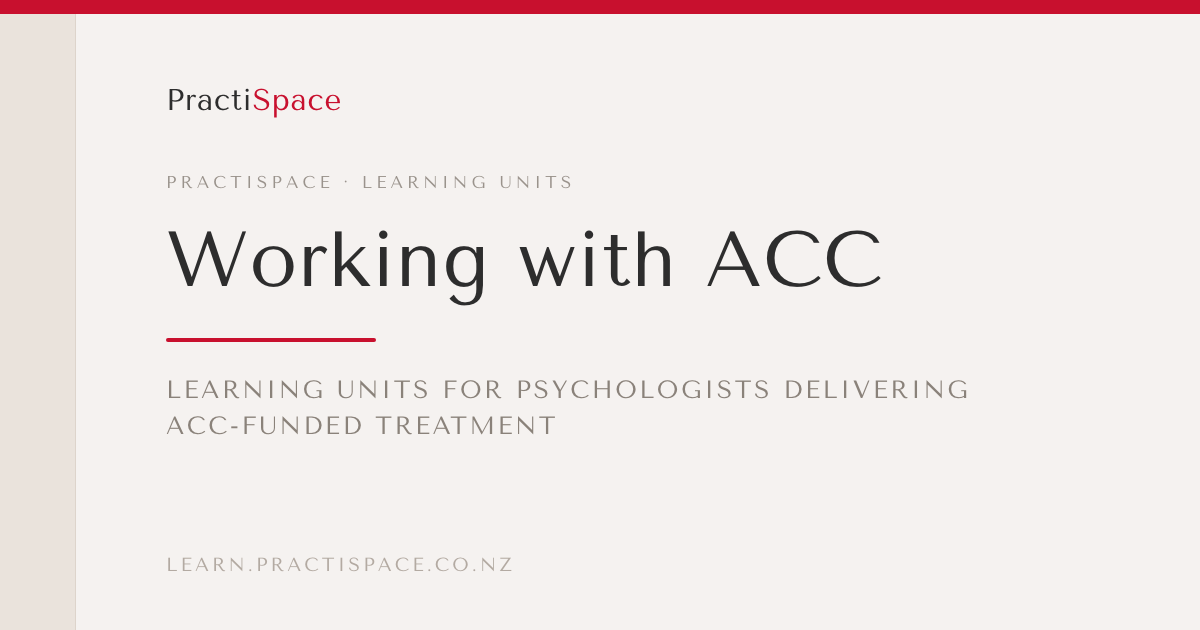
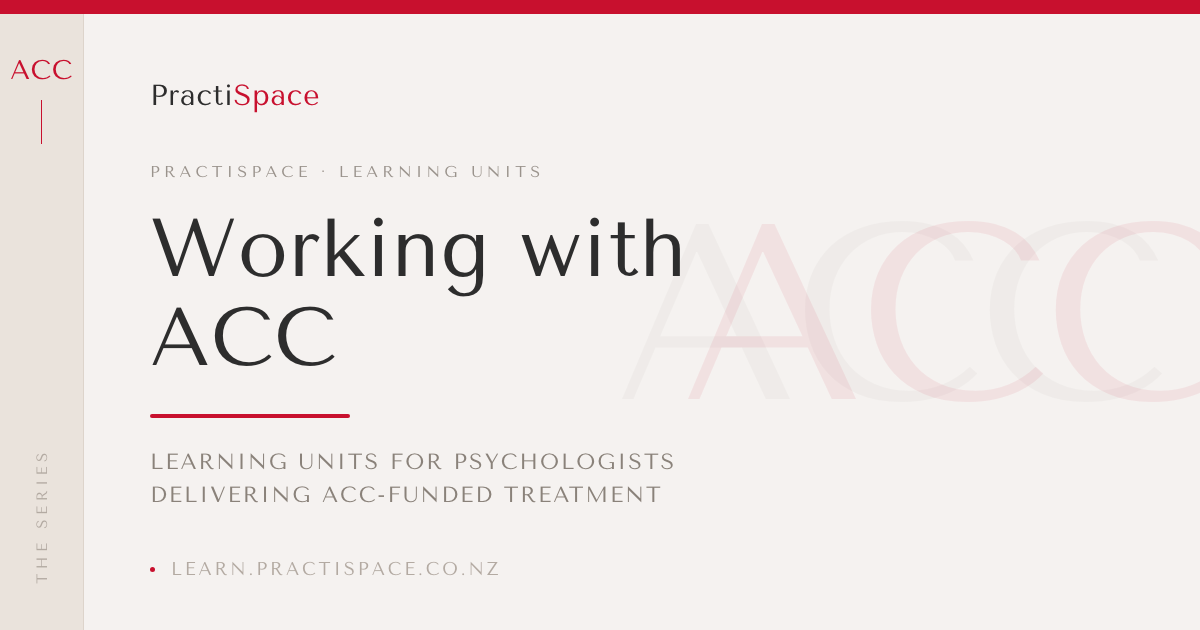
Richer social cards: oversized unit numeral, rail, fuller image metadata
The first cards were type-only and WhatsApp rendered several links as
text-only previews. Adds an oversized ghosted unit mark with a softer
echo behind it, the unit rail, and og:image:type/secure_url/alt so
crawlers have everything they need to show the large card.

diff --git a/tools/social-cards.js b/tools/social-cards.js
@@ -37,8 +37,15 @@ const CHROME = [
 const esc = (s) =>
   String(s).replace(/&/g, '&amp;').replace(/</g, '&lt;').replace(/>/g, '&gt;');
 
-function cardHtml({ eyebrow, title, subtitle }) {
+function cardHtml({ eyebrow, title, subtitle, ghost, railLabel }) {
   const fontUrl = 'file://' + FONT;
+  // Long titles need to come down a little so the card never feels crowded.
+  const titleSize = title.length > 30 ? 66 : title.length > 22 ? 74 : 82;
+  // The ghost is sized so a longer mark ("ACC") stays clear of the text block
+  // instead of running underneath it the way a two-digit number can.
+  const ghostSize = ghost.length >= 3 ? 250 : 440;
+  const ghostRight = ghost.length >= 3 ? -28 : -46;
+  const echoRight = ghost.length >= 3 ? 38 : 62;
   return `<!DOCTYPE html>
 <html><head><meta charset="utf-8">
 <style>
@@ -54,41 +61,86 @@ function cardHtml({ eyebrow, title, subtitle }) {
     background: #f5f2f0;
     color: #2d2d2d;
     -webkit-font-smoothing: antialiased;
+    position: relative;
   }
+
   .bar { height: 14px; background: #C8102E; }
+
+  /* The unit rail, as on the page itself. */
   .rail {
-    position: absolute; left: 0; top: 14px; bottom: 0; width: 76px;
+    position: absolute; left: 0; top: 14px; bottom: 0; width: 84px;
     background: #eae3dc; border-right: 1px solid #ddd4cb;
+    display: flex; flex-direction: column; align-items: center;
+    justify-content: space-between; padding: 40px 0 46px;
   }
-  .wrap { padding: 68px 90px 0 166px; height: 616px; display: flex; flex-direction: column; }
-  .mark { font-size: 30px; letter-spacing: 0.02em; }
+  .rail-num { font-size: 27px; color: #C8102E; letter-spacing: 0.02em; }
+  .rail-tick { width: 1px; height: 44px; background: #C8102E; margin-top: 14px; }
+  .rail-top { display: flex; flex-direction: column; align-items: center; }
+  .rail-label {
+    writing-mode: vertical-rl; transform: rotate(180deg);
+    font-size: 15px; letter-spacing: 0.3em; text-transform: uppercase;
+    color: #b3aaa2; white-space: nowrap;
+  }
+
+  /* The oversized numeral, bleeding off the right edge. */
+  .ghost {
+    position: absolute; right: ${ghostRight}px; top: 50%; transform: translateY(-50%);
+    font-size: ${ghostSize}px; line-height: 0.78; color: #C8102E; opacity: 0.07;
+    letter-spacing: -0.02em; user-select: none;
+  }
+  /* A second, softer echo behind it for depth. */
+  .ghost-echo {
+    position: absolute; right: ${echoRight}px; top: 50%; transform: translateY(-50%);
+    font-size: ${ghostSize}px; line-height: 0.78; color: #8a827a; opacity: 0.05;
+    letter-spacing: -0.02em;
+  }
+
+  .wrap {
+    position: relative; z-index: 2;
+    padding: 64px 470px 0 150px; height: 616px;
+    display: flex; flex-direction: column;
+  }
+  .mark { font-size: 29px; letter-spacing: 0.02em; }
   .mark span { color: #C8102E; }
   .eyebrow {
-    font-size: 17px; letter-spacing: 0.24em; text-transform: uppercase;
-    color: #9a938c; margin-top: 54px;
+    font-size: 16px; letter-spacing: 0.26em; text-transform: uppercase;
+    color: #9a938c; margin-top: 50px;
   }
   h1 {
-    font-size: 78px; line-height: 1.1; font-weight: 400; letter-spacing: 0.01em;
-    margin-top: 26px; max-width: 900px;
+    font-size: ${titleSize}px; line-height: 1.08; font-weight: 400;
+    letter-spacing: 0.01em; margin-top: 24px; text-wrap: pretty;
   }
-  .rule { width: 210px; height: 4px; background: #C8102E; border-radius: 3px; margin-top: 34px; }
+  .rule { width: 200px; height: 4px; background: #C8102E; border-radius: 3px; margin-top: 32px; }
   .sub {
-    font-size: 25px; letter-spacing: 0.1em; text-transform: uppercase;
-    color: #8a827a; margin-top: 30px; max-width: 830px; line-height: 1.45;
+    font-size: 22px; letter-spacing: 0.09em; text-transform: uppercase;
+    color: #8a827a; margin-top: 28px; line-height: 1.5; text-wrap: pretty;
   }
-  .foot { margin-top: auto; padding-bottom: 54px; font-size: 19px; letter-spacing: 0.16em;
-          text-transform: uppercase; color: #b3aaa2; }
+  .foot {
+    margin-top: auto; padding-bottom: 50px;
+    display: flex; align-items: center; gap: 16px;
+    font-size: 18px; letter-spacing: 0.16em; text-transform: uppercase; color: #b3aaa2;
+    white-space: nowrap;
+  }
+  .foot-dot { width: 5px; height: 5px; border-radius: 50%; background: #C8102E; flex: none; }
 </style></head>
 <body>
   <div class="bar"></div>
-  <div class="rail"></div>
+  <div class="rail">
+    <div class="rail-top">
+      <div class="rail-num">${esc(ghost)}</div>
+      <div class="rail-tick"></div>
+    </div>
+    <div class="rail-label">${esc(railLabel)}</div>
+  </div>
+  <div class="ghost-echo">${esc(ghost)}</div>
+  <div class="ghost">${esc(ghost)}</div>
   <div class="wrap">
     <div class="mark">Practi<span>Space</span></div>
     <div class="eyebrow">${esc(eyebrow)}</div>
     <h1>${esc(title)}</h1>
     <div class="rule"></div>
     <div class="sub">${esc(subtitle)}</div>
-    <div class="foot">learn.practispace.co.nz</div>
+    <div class="foot"><span class="foot-dot"></span>learn.practispace.co.nz</div>
   </div>
 </body></html>`;
 }
@@ -134,12 +186,16 @@ function main() {
       eyebrow: 'PractiSpace · Learning units',
       title: site.title,
       subtitle: site.tagline,
+      ghost: 'ACC',
+      railLabel: 'The series',
     },
     ...units.map((u) => ({
       name: `social-${u.slug}.png`,
       eyebrow: `Working with ACC · Unit ${u.number}`,
       title: u.title,
       subtitle: u.subtitle,
+      ghost: u.number,
+      railLabel: `Unit ${u.number}`,
     })),
   ];
 

diff --git a/build.js b/build.js
@@ -174,8 +174,11 @@ function shell({ title, description, canonical, bodyHtml, pageTitle, image }) {
 <meta property="og:description" content="${esc(description)}">
 <meta property="og:url" content="${canonical}">
 <meta property="og:image" content="${ogImage}">
+<meta property="og:image:secure_url" content="${ogImage}">
+<meta property="og:image:type" content="image/png">
 <meta property="og:image:width" content="1200">
 <meta property="og:image:height" content="630">
+<meta property="og:image:alt" content="${esc(pageTitle || title)} — PractiSpace">
 
 <meta name="twitter:card" content="summary_large_image">
 <meta name="twitter:title" content="${esc(pageTitle || title)}">
